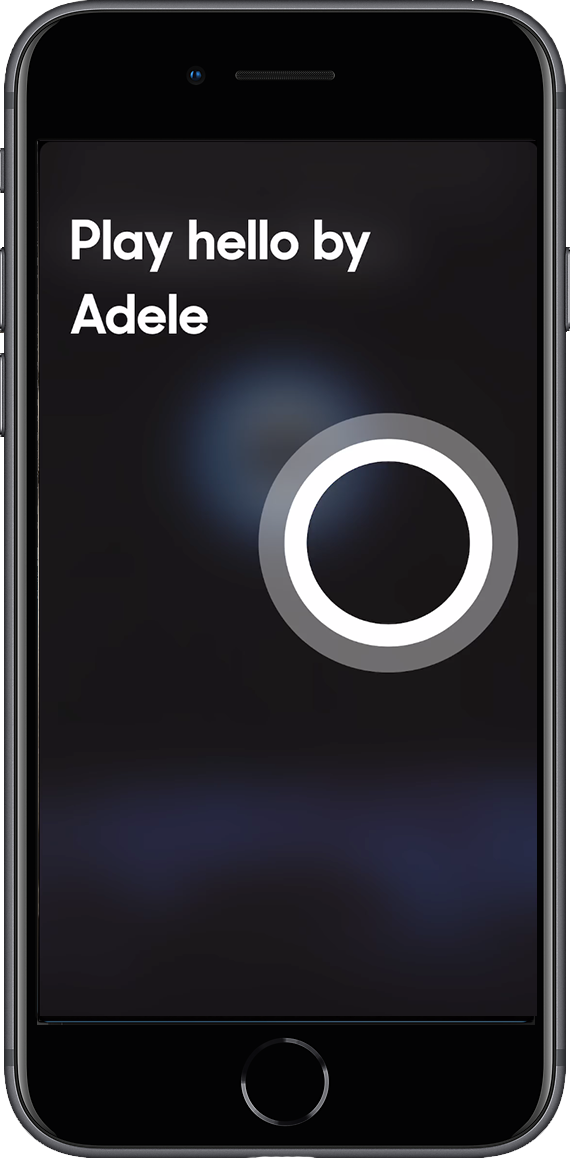
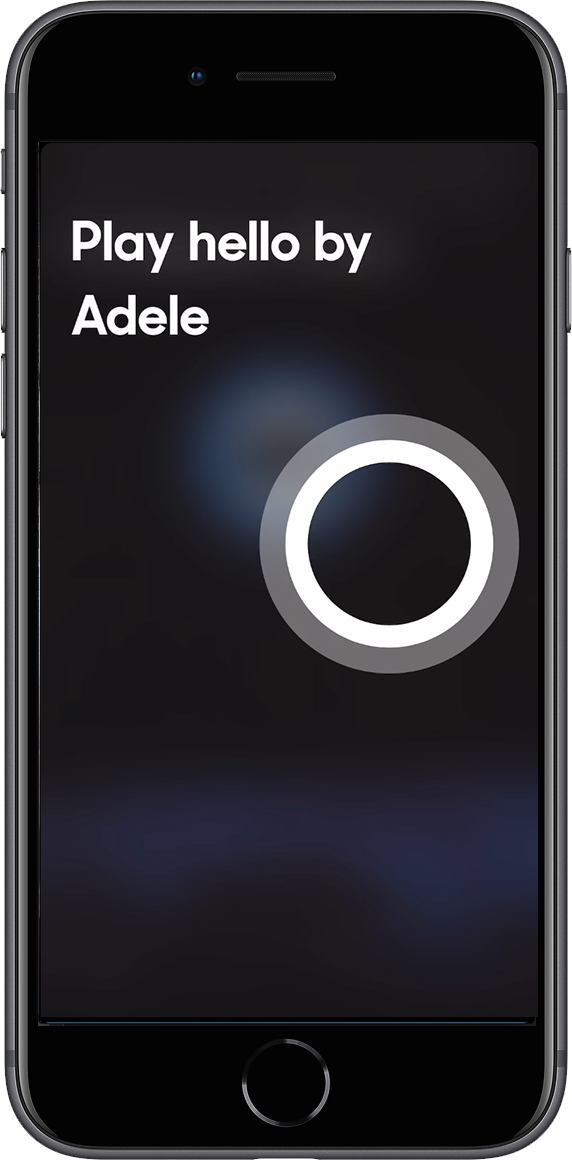
buttons - wip

diff --git a/source/stylesheets/index/_omega-app-songs.scss b/source/stylesheets/index/_omega-app-songs.scss
@@ -1,5 +1,5 @@
 .omega-app-songs-container {
-  background: url('../images/index/omega-app-background-adele-hello.jpg') 0 0 no-repeat $white;
+  background: url('../images/index/omega-app-background-adele-hello.png') 0 0 no-repeat $white;
   background-size: contain;
   margin-top: 6rem;
 

diff --git a/source/stylesheets/index/_buttons.scss b/source/stylesheets/index/_buttons.scss
@@ -15,7 +15,7 @@
 }
 
 .buttons-animation-container {
-  bottom: -20%;
+  // bottom: -20%;
   margin: 0 auto;
   position: relative;
   text-align: center;
